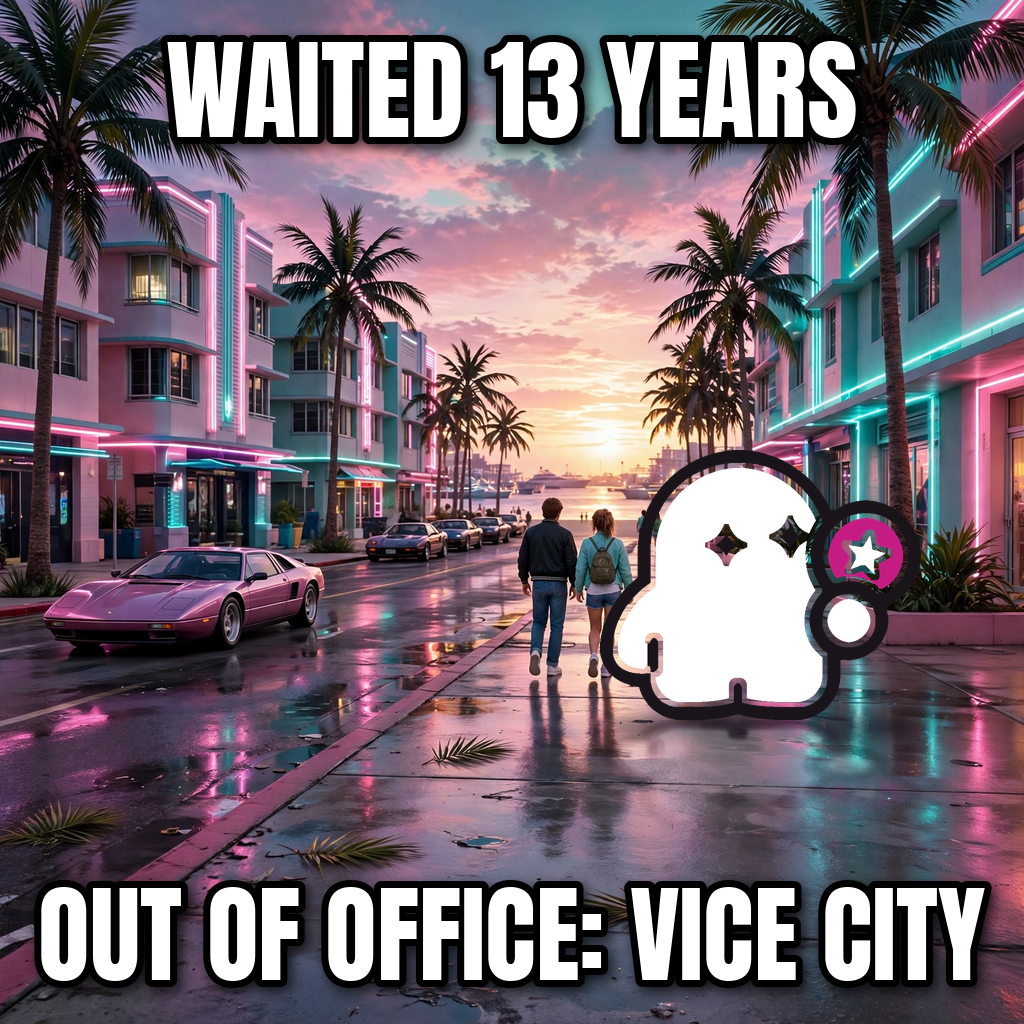
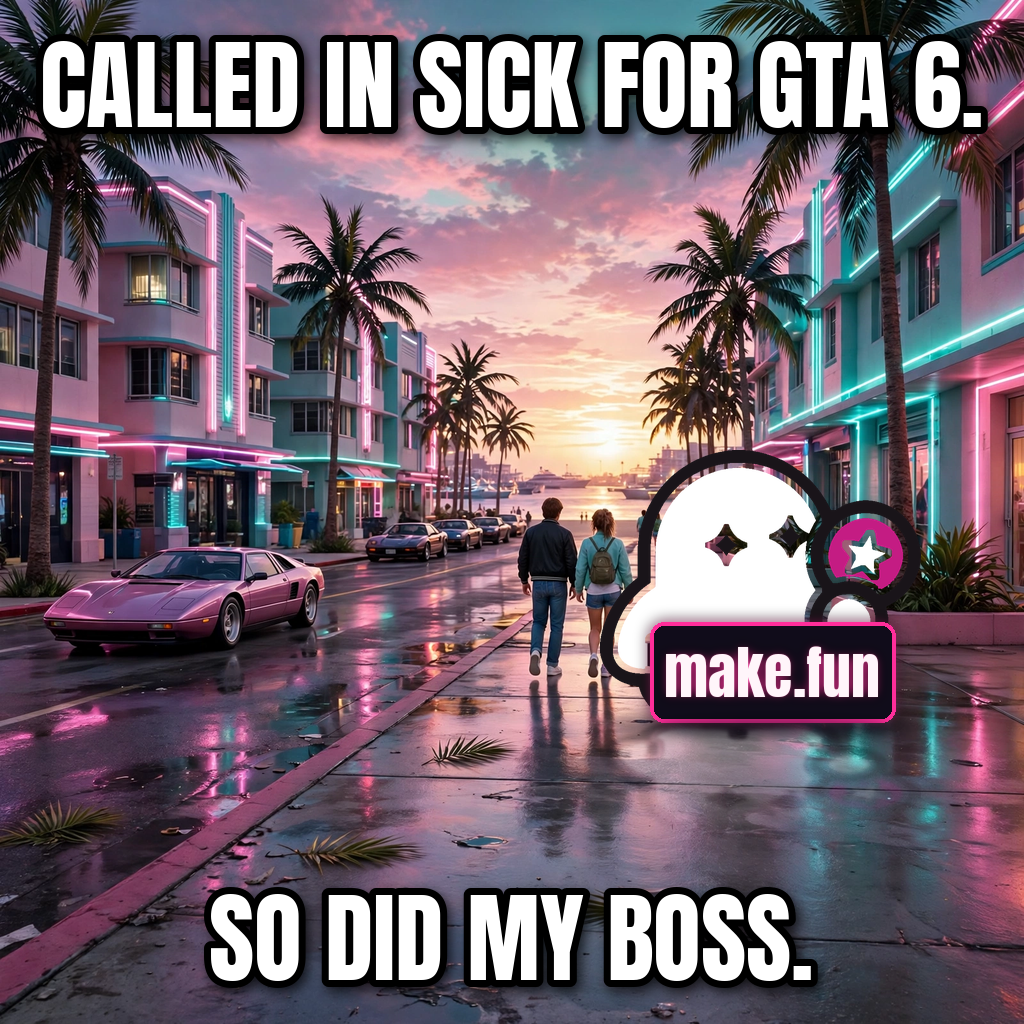
Improve: boss-twist joke + neon make.fun placard to beat the 80.1% leader

Changed region(s): [[0.0312, 0.8438, 1.0, 0.9688], [0.0312, 0.0312, 0.9688, 0.1562], [0.625, 0.5938, 0.875, 0.7188]]

diff --git a/README.md b/README.md
@@ -4,11 +4,12 @@
 [![rank](https://make.fun/badge/gta6-meme-x-01/ardimakefun/gta6-meme-x-01/rank.svg)](https://make.fun/bounty/gta6-meme-x-01/leaderboard?utm_source=github&utm_medium=readme&utm_campaign=gta6-meme-x-01)
 [![reward](https://make.fun/badge/gta6-meme-x-01/ardimakefun/gta6-meme-x-01/reward.svg)](https://make.fun/bounty/gta6-meme-x-01?utm_source=github&utm_medium=readme&utm_campaign=gta6-meme-x-01)
 
-The meme: a neon Vice City street at sunset, a young couple walking toward the
-beachfront after waiting 13 years since GTA V — captioned "WAITED 13 YEARS" /
-"OUT OF OFFICE: VICE CITY". make.fun's white ghost stands on the sidewalk with
-its sparkle eyes and magenta star coin, heading to Vice City with everyone
-else. The joke is the launch-day sick day every GTA fan is taking.
+The meme: a neon Vice City street at sunset, a young couple (Jason and Lucia)
+walking toward the beachfront — captioned "CALLED IN SICK FOR GTA 6." /
+"SO DID MY BOSS." The joke is the twist: you called in sick for launch day,
+and so did your boss. make.fun's white ghost stands on the sidewalk with its
+sparkle eyes and magenta star coin, behind a neon "make.fun" placard standing
+on the pavement — the mascot and the name both worked into the scene.
 
 The picture is `meme.png` (1024×1024). The post text is `POST_TEXT.txt`: it
 carries the make.fun bounty link, a tag of @makefunai, the play code
